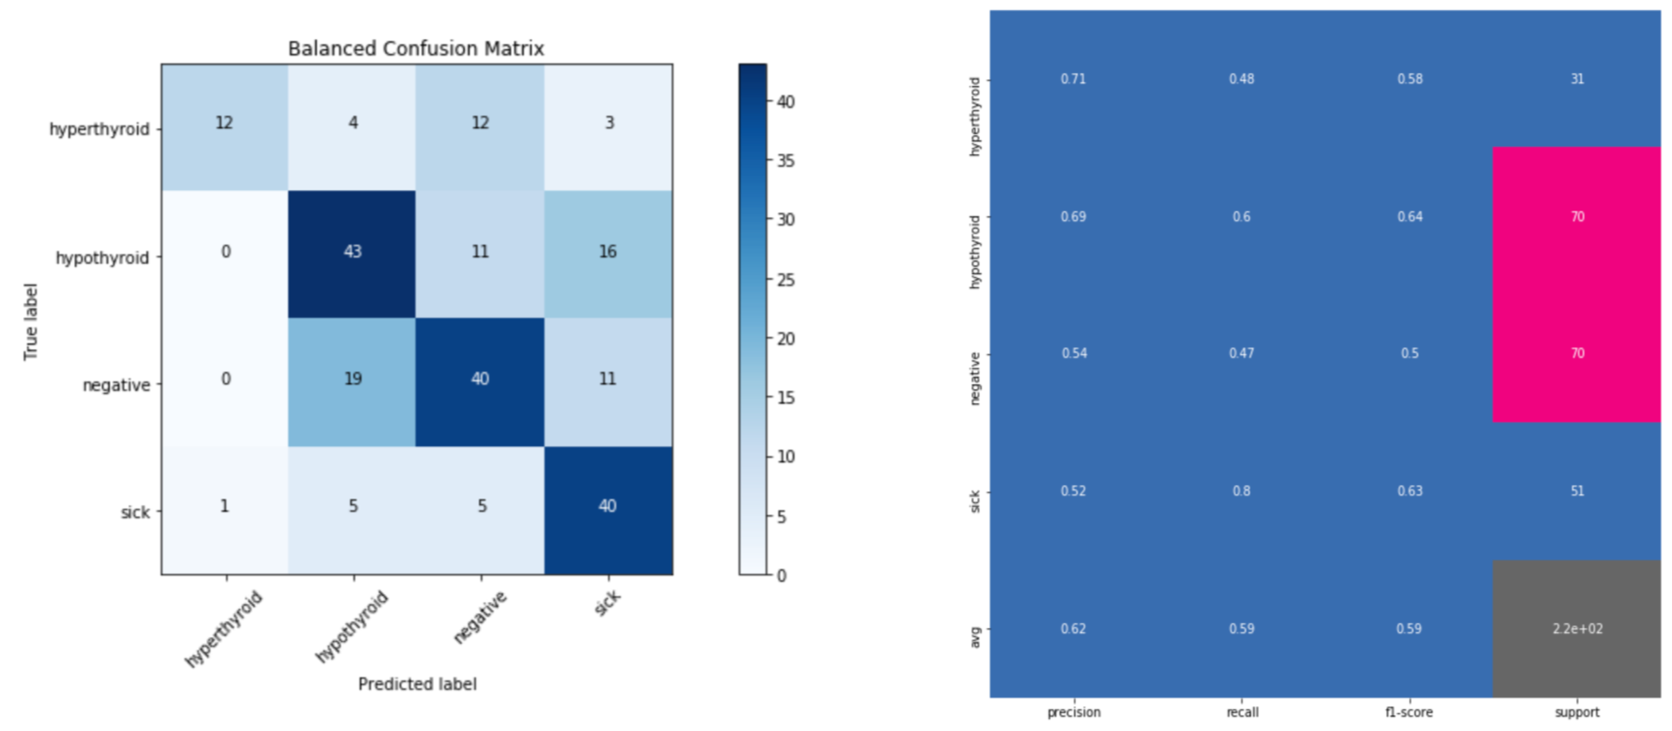
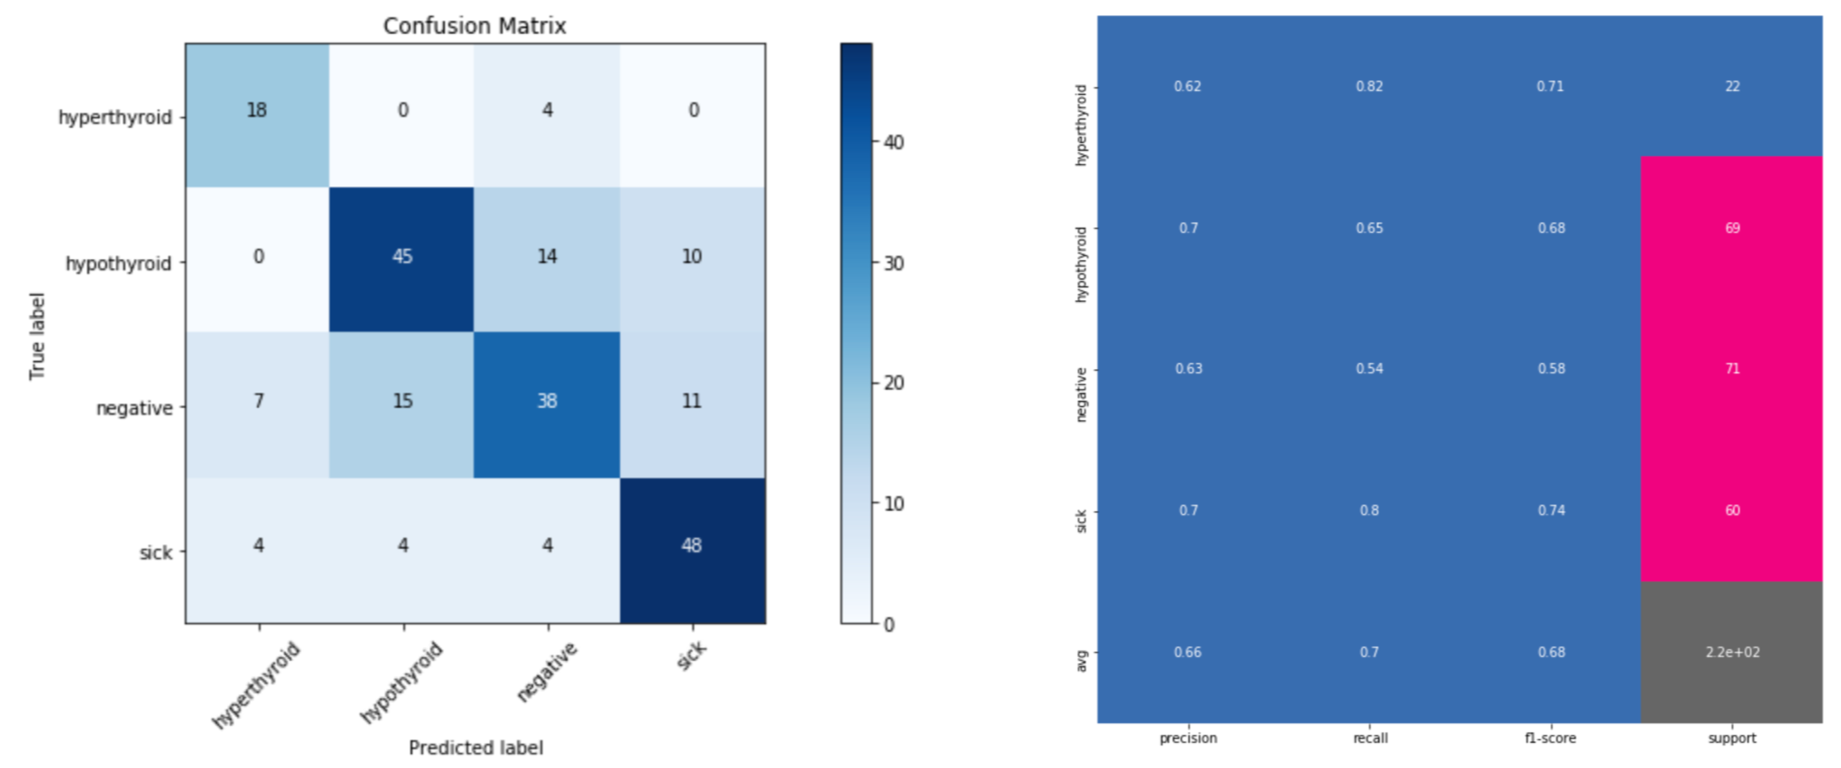
Updates
Changed from Stratified K-fold to ordinary K-fold
Updated image results

diff --git a/README.md b/README.md
@@ -90,7 +90,7 @@ Robust to outliers
 - Strategy involves training a single classifier per class, with the samples of that class as positive samples and all other samples as negatives. 
 - Essentially, it decomposes a multiclass classification problem into a multiple binary classification problems
 
-## Results: Balanced Data Accuracy: 60%
+## Results: Balanced Data Accuracy: 68%
 ![Insert Balanced Data Image](https://github.com/deontaepharr/Multiclass_SVM_Thyroid_Classification/blob/master/misc/bal.png?raw=true)
 
 ## Results: Unbalanced Data Accuracy: 84%
